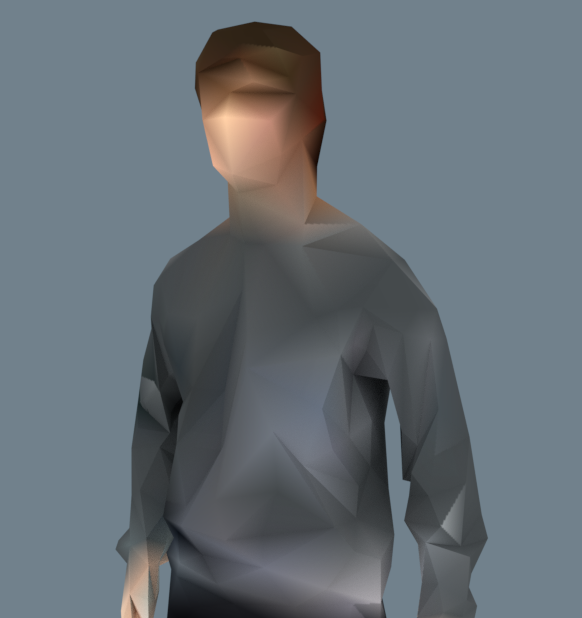
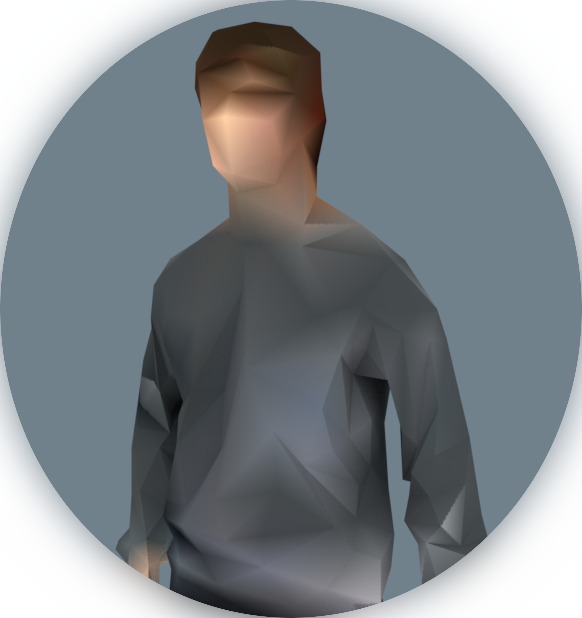
Improved Gallery Img Aspect Ratio

diff --git a/style.css b/style.css
@@ -137,6 +137,7 @@ body {
 
 section {
     font-family: 'Verdana', sans-serif;
+    text-align: justify;
 }
 
 p {
@@ -468,9 +469,9 @@ summary:hover {
 }
 
 
-/* -------------------------------------------------- Image Gallery -------------------------------------------------------------------- */
+/* -------------------------------------------------- 1:1 Aspect Image Gallery -------------------------------------------------------------------- */
 
-.gallery {
+.even-gallery {
     display: grid;
     grid-template-columns: repeat(4, auto);
     /* grid-auto-columns: minmax(10%, auto); */
@@ -481,7 +482,7 @@ summary:hover {
     justify-items: stretch;
 }
 
-.gallery > img {
+.even-gallery > img {
     max-width: 100%;
     max-height: 100%;
     
@@ -498,7 +499,7 @@ summary:hover {
 }
 
 
-.gallery img:hover {
+.even-gallery img:hover {
     transition: 0.2s;
     cursor: pointer;
     
@@ -506,7 +507,7 @@ summary:hover {
 }
 
 
-.gallery img:active {    
+.even-gallery img:active {    
     /* Best fit as large as possible */
     aspect-ratio: auto;
     object-fit: contain;
@@ -531,7 +532,75 @@ summary:hover {
 
 
 @media (max-width: 800px) {
-    .gallery {
+    .even-gallery {
         grid-template-columns: repeat(2, auto);
     } 
 }
+
+/* -------------------------------------------------- Dynamic Gallery --------------------------------------- */
+
+.dynamic-gallery {
+    display: flex;
+    flex-wrap: wrap;
+    gap: 1em;
+
+    justify-content: center;
+    align-content: flex-start;
+    
+    align-items: stretch;
+    justify-items: stretch;
+}
+
+.dynamic-gallery > img {
+    flex: 1;
+
+    max-width: 25vw;
+    max-height: 25vh;
+
+    aspect-ratio: auto;
+    object-fit: contain;
+    /*outline: ridge red 2px;*/
+
+    object-fit: cover;
+
+    border-radius: 2em;
+    filter: drop-shadow(0 0 0.3em black);
+}
+
+@media (max-width: 800px) {
+    .dynamic-gallery > img {
+        max-width: 30vw;
+        max-height: 60vh;
+    }    
+}
+
+.dynamic-gallery img:hover {
+    transition: 0.2s;
+    cursor: pointer;
+    
+    box-shadow: 0 0 1em black;
+}
+
+.dynamic-gallery img:active {    
+    /* Best fit as large as possible */
+    aspect-ratio: auto;
+    object-fit: contain;
+    max-width: 90vw;
+    max-height: calc(90vh - 5vh);
+   
+    /* center on screen */
+    position: fixed; 
+    top: 50vh;
+    left: 50vw;
+    transform: translate(-50%, -50%);
+    
+    /* Visual sugar */
+    z-index: 500;
+    
+    cursor: grabbing;
+    filter: drop-shadow(0 0 5em black);
+    border-radius: 0.25em; 
+
+    transition: 0.3s;
+}
+/* ---------------------------------------------------- Projects -------------------------------------------- */

diff --git a/sub-pages/3D-Art.html b/sub-pages/3D-Art.html
@@ -48,7 +48,7 @@
                 <p>Also feel free to check out my </p> <a href="https://www.artstation.com/zockchster" target="_blank">ArtStation</a><br/>
                 <br/>
 
-                <div class="gallery">
+                <div class="dynamic-gallery">
                     <img src="https://cdna.artstation.com/p/assets/images/images/066/577/194/large/jonas-h-highpoly-clay.jpg?1693250247">
                     <img src="https://cdna.artstation.com/p/assets/images/images/066/578/118/large/jonas-h-blender-render.jpg?1693250605">
                     <img src="https://cdna.artstation.com/p/assets/images/images/066/575/540/large/jonas-h-scar-blender-render.jpg?1693246344">

diff --git a/index.html b/index.html
@@ -56,6 +56,8 @@
                 <p> 
                     Hi, my name is Jonas Hack. I'm a <b class="gradient-text">Game Programmer</b> by trade and <b class="gradient-text">3D Artist</b> by hobby.
                     <br>
+                    <b class="gradient-text">Tool Dev</b> and <b class="gradient-text">Tech Art</b> are among my special interests.
+                    <br>
                     Currently I study <b class="gradient-text">Informatics: Games Engineering</b> at TUM, but my studies are coming to an end soon. 
                     <br>
                     Therefore I'm looking to join a Munich based studio.
